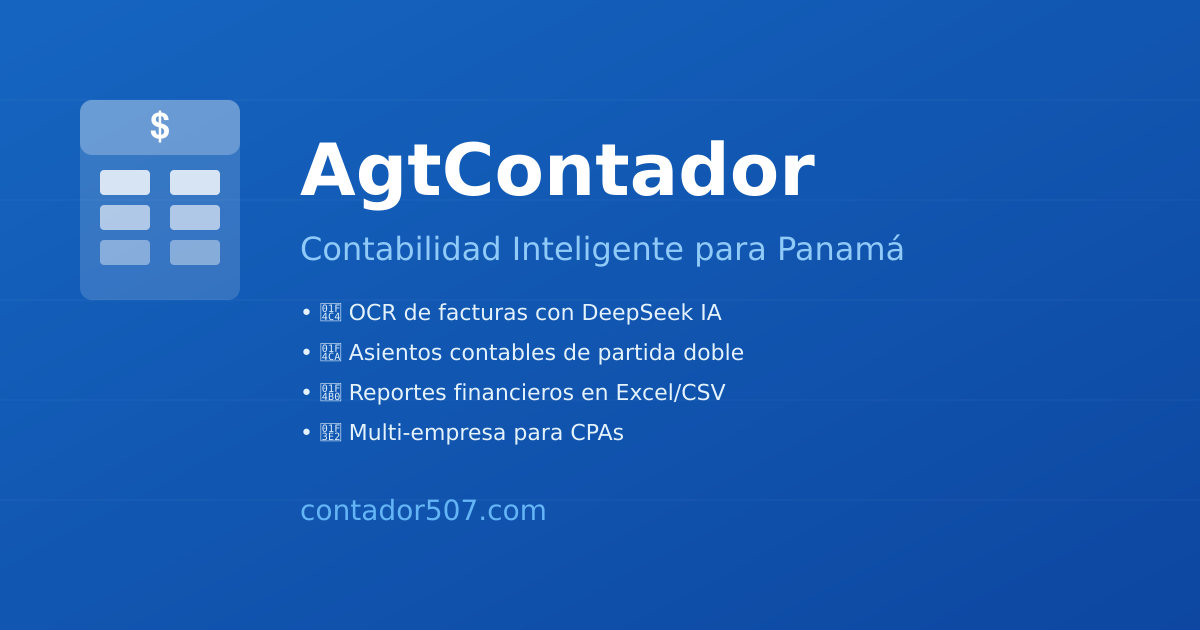
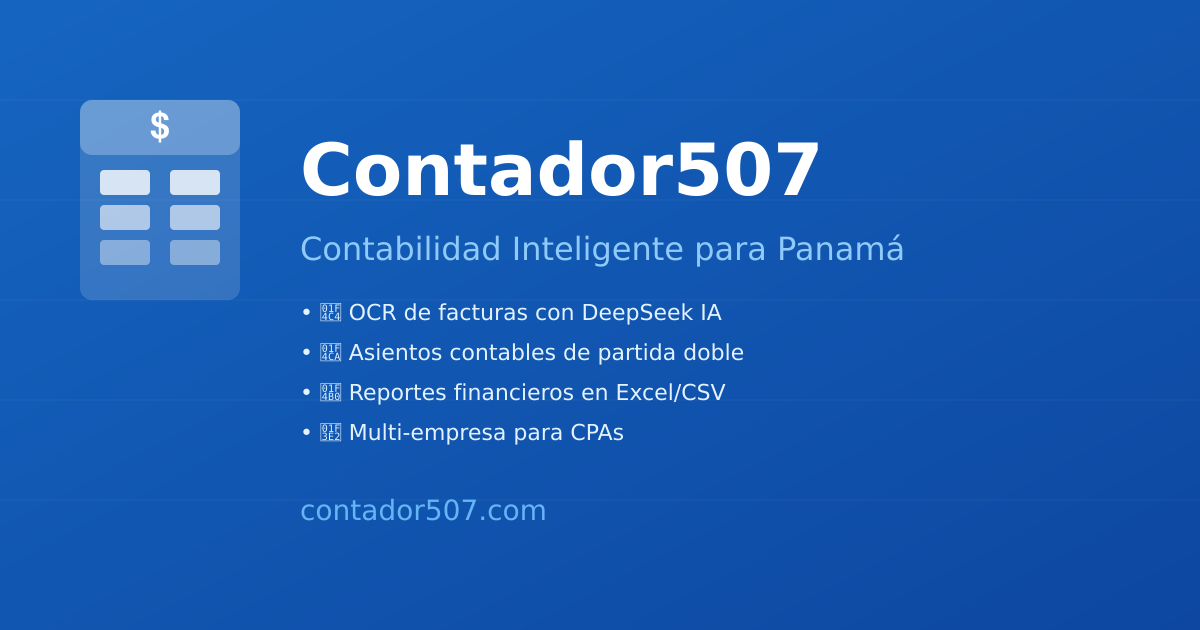
chore: rebrand a Contador507 en título, sidebar y OG tags
- Reemplazado 'AgtContador' por 'Contador507' en title, sidebar,
  Open Graph, Twitter Card, OG image y login page

Changed region(s): [[0.2467, 0.2111, 0.6783, 0.3317]]

diff --git a/apps/web/public/index.html b/apps/web/public/index.html
@@ -3,7 +3,7 @@
 <head>
   <meta charset="UTF-8">
   <meta name="viewport" content="width=device-width, initial-scale=1.0">
-  <title>AgtContador — Contabilidad Inteligente</title>
+  <title>Contador507 — Contabilidad Inteligente</title>
   <meta name="description" content="Agente contable inteligente para Panamá. Registra transacciones, genera asientos contables, OCR de facturas y reportes financieros.">
   <meta name="theme-color" content="#1565c0">
 
@@ -13,7 +13,7 @@
   <link rel="apple-touch-icon" href="/favicon.svg">
 
   <!-- Open Graph / Social -->
-  <meta property="og:title" content="AgtContador — Contabilidad Inteligente">
+  <meta property="og:title" content="Contador507 — Contabilidad Inteligente">
   <meta property="og:description" content="Agente contable impulsado por IA para Panamá. Registra transacciones, procesa facturas con OCR y genera reportes financieros automáticamente.">
   <meta property="og:type" content="website">
   <meta property="og:url" content="https://contador507.com">
@@ -24,7 +24,7 @@
 
   <!-- Twitter Card -->
   <meta name="twitter:card" content="summary_large_image">
-  <meta name="twitter:title" content="AgtContador — Contabilidad Inteligente">
+  <meta name="twitter:title" content="Contador507 — Contabilidad Inteligente">
   <meta name="twitter:description" content="Agente contable con IA para Panamá. Facturas, asientos y reportes automatizados.">
 
   <link rel="stylesheet" href="styles.css?v=7">
@@ -33,7 +33,7 @@
   <div id="app">
     <aside id="sidebar">
       <div class="sidebar-header">
-        <h2>AgtContador</h2>
+        <h2>Contador507</h2>
       </div>
       <div id="sidebar-user" style="padding:8px 12px;border-bottom:1px solid #e2e4e8;margin-bottom:4px">
         <div style="font-size:13px;font-weight:600;color:#1a1a2e" id="sidebar-user-name">—</div>

diff --git a/apps/web/public/login.html b/apps/web/public/login.html
@@ -3,8 +3,8 @@
 <head>
   <meta charset="UTF-8">
   <meta name="viewport" content="width=device-width, initial-scale=1.0">
-  <title>AgtContador — Iniciar Sesión</title>
-  <meta name="description" content="Inicia sesión en AgtContador, el agente contable inteligente para Panamá.">
+  <title>Contador507 — Iniciar Sesión</title>
+  <meta name="description" content="Inicia sesión en Contador507, el agente contable inteligente para Panamá.">
   <meta name="theme-color" content="#1565c0">
   <link rel="icon" type="image/svg+xml" href="/favicon.svg">
   <link rel="alternate icon" href="/favicon.ico">